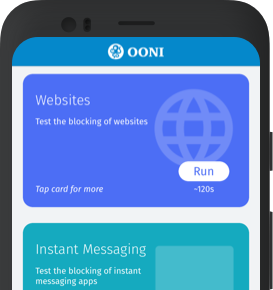
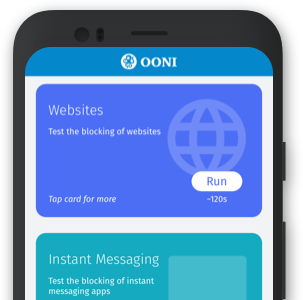
Update phone mockup images

diff --git a/static/css/master.css b/static/css/master.css
@@ -694,7 +694,7 @@ img.install-flourish {
   top: 1.25rem;
   z-index: 2;
   position: absolute;
-  left: 300px;
+  left: 250px;
   top: -1000px;
 }
 
